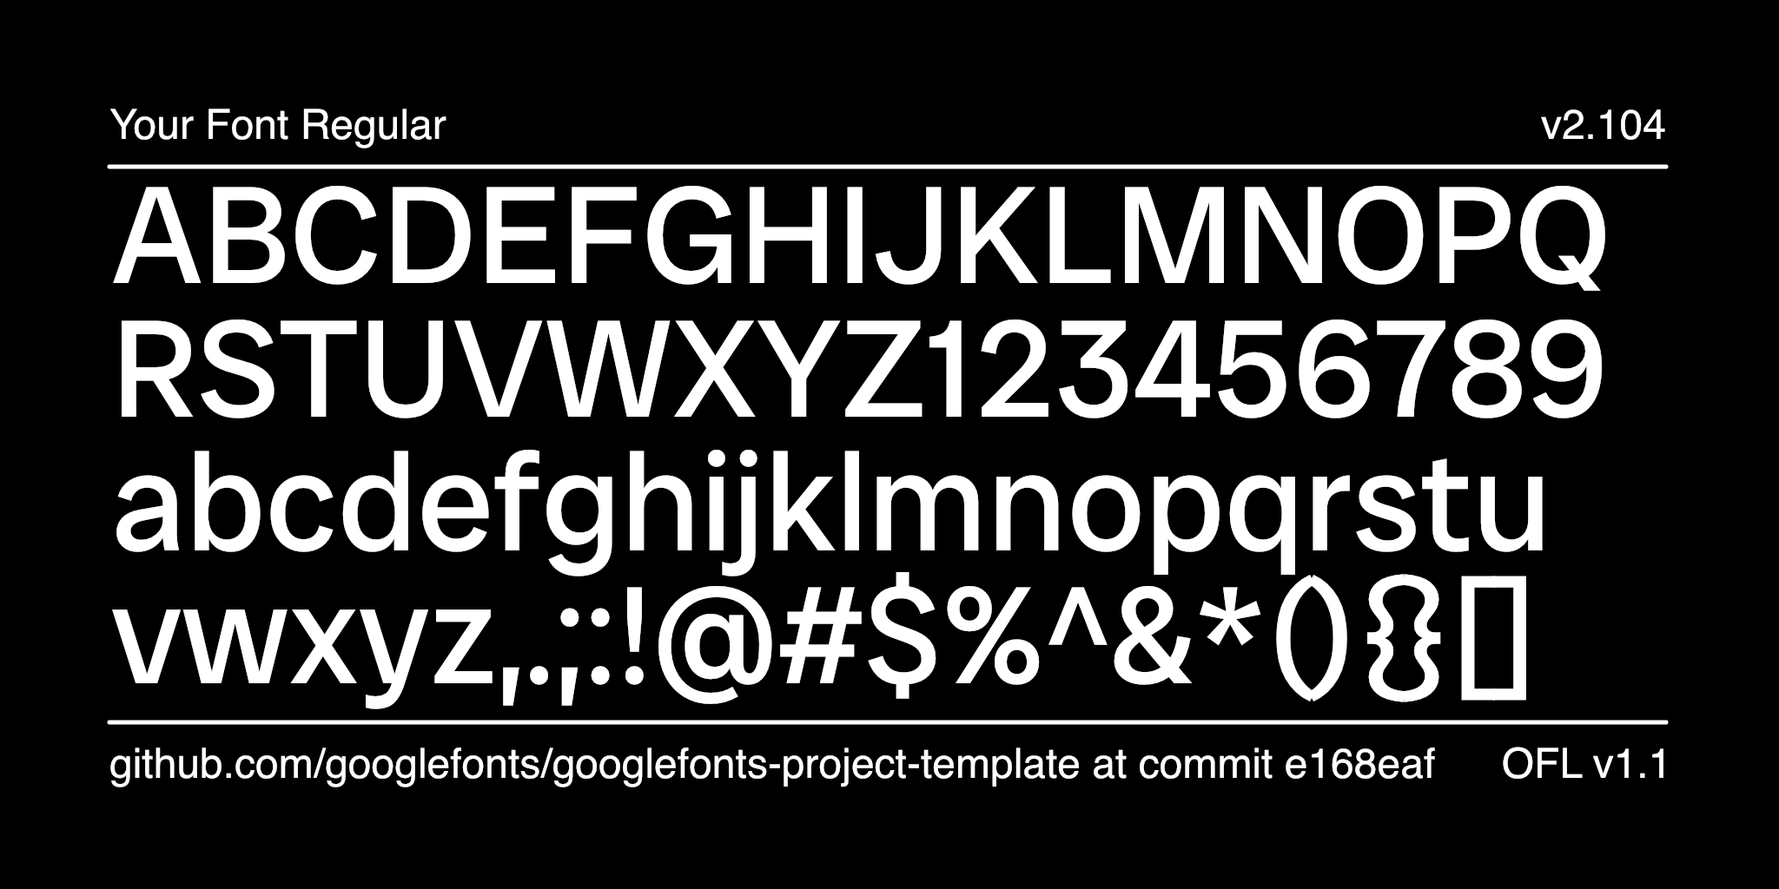
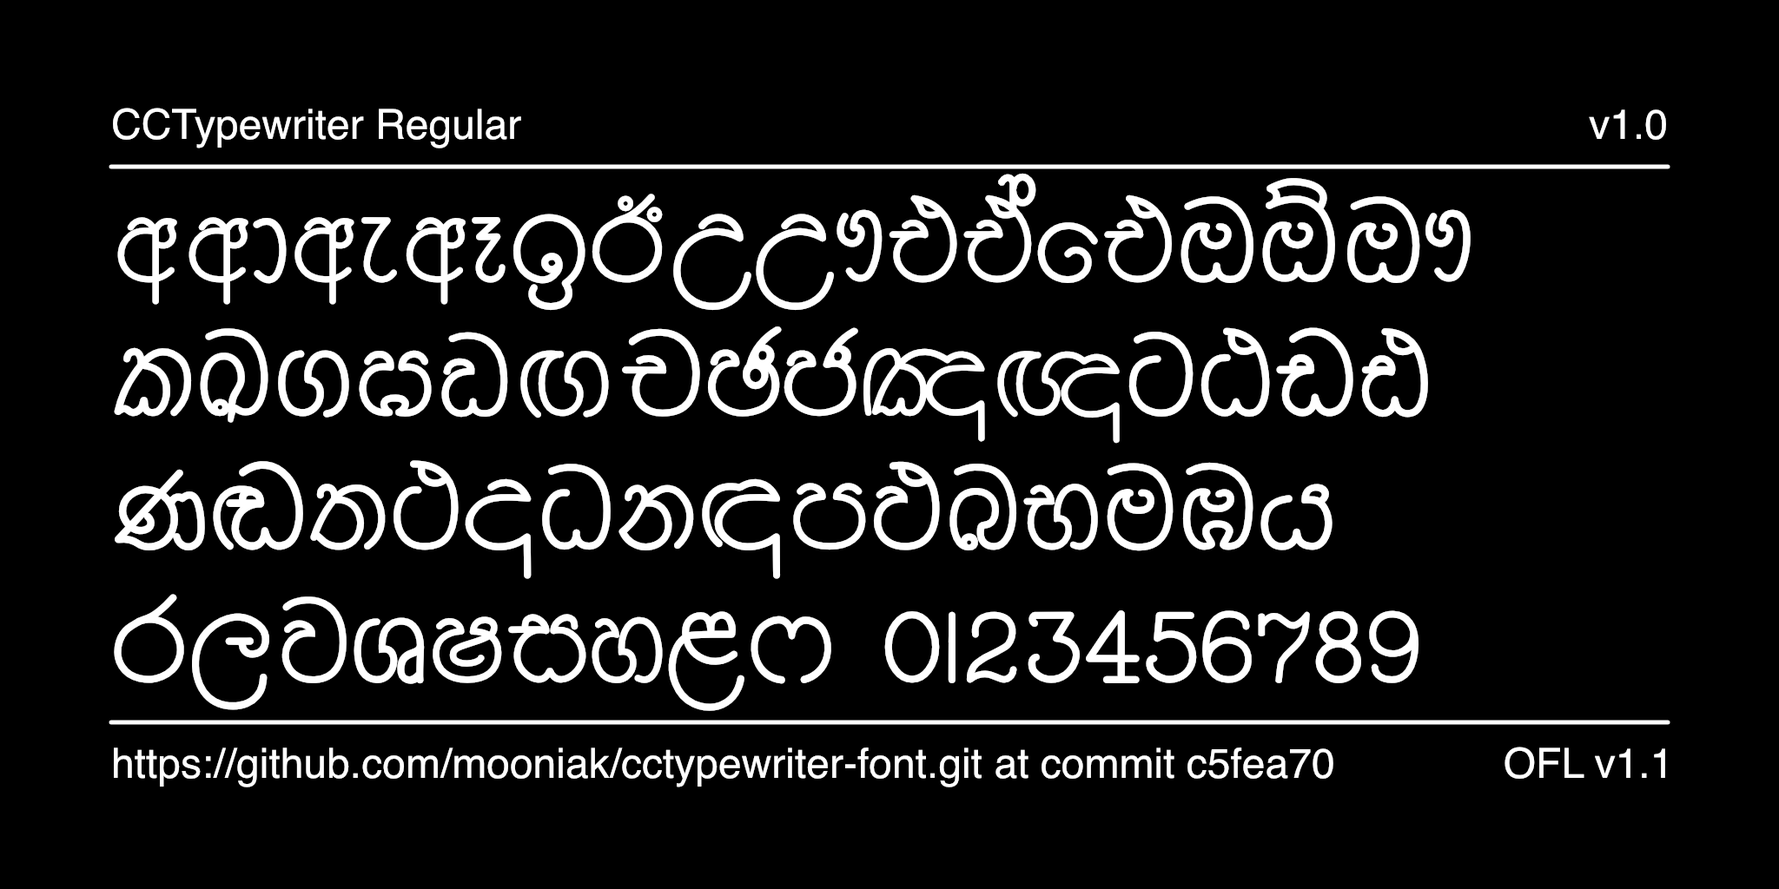
README, credits, article and specimens
Fills in the project template's placeholders:
- README: the font, its ASCII to Unicode port, font data and coverage
  from the release build, OpenType features, build and release steps
- AUTHORS.txt and CONTRIBUTORS.txt: Damith Welikala; OFL.txt line 1 is
  the font's copyright
- documentation/ARTICLE.en_us.html: the font description
- specimens: image1/image2.py point at fonts/ttf with Sinhala text drawn
  from the font's own coverage, rendered from a local --channel release
  build
- fontpackage.json: drop the "(issue #1)" reference; the repo has no
  issues yet

diff --git a/documentation/ARTICLE.en_us.html b/documentation/ARTICLE.en_us.html
@@ -1,12 +1,22 @@
 <p>
-    Please add a text describing the font here, 100 chracters or more, but no more than 500 words.
-    See https://googlefonts.github.io/gf-guide/article.html for further reference.
-    Please make sure that HTML characters are properly encoded. ('&' becomes &amp; etc.)
-    If unsure, use https://www.freeformatter.com/html-escape.html for formatting. (Use "Escape HTML").
+    CCTypewriter is a Sinhala typeface by Damith Welikala (Ceylon Calligraphy), made in 2019.
+    Its letters are drawn with a single even, round-ended stroke, like the letters of a
+    Sinhala typewriter, with simple open vowel signs and a small p-shaped al-lakuna. It
+    suits headings, posters, packaging and short texts that want the plain, mechanical feel
+    of typewritten Sinhala.
 </p>
 <p>
-    Could be several paragraphs, also.
+    The font was first made in the FM Abhaya ASCII layout, the encoding most Sinhala fonts used
+    before Unicode: Sinhala letters were drawn on Latin keys, so text only looked like Sinhala in
+    that one font. In 2026 Mooniak ported it to Unicode. Every glyph now sits on its Sinhala
+    code point or is reached through OpenType rules, the vowel signs that were typed as separate
+    keys are composed, and the signs are positioned exactly where the original drew them.
 </p>
 <p>
-    To contribute, see <a href="https://github.com/youruseraccount/yourrepository">github.com/youruseraccount/yourrepository</a>.
+    The font covers the Sinhala letters in common use with their vowel signs, rakaransaya and
+    yansaya, ඦ and ෳ, a set of consonant + vowel-sign ligatures, the conjuncts ක්&zwj;ෂ, ත්&zwj;ව,
+    න්&zwj;ද and ද්&zwj;ර, plus digits and basic punctuation, in a single Regular weight.
+</p>
+<p>
+    To contribute, see <a href="https://github.com/mooniak/cctypewriter-font">github.com/mooniak/cctypewriter-font</a>.
 </p>

diff --git a/documentation/image2.py b/documentation/image2.py
@@ -1,7 +1,7 @@
 # This script is meant to be run from the root level
 # of your font's git repository. For example, from a Unix terminal:
-# $ git clone my-font
-# $ cd my-font
+# $ git clone https://github.com/mooniak/cctypewriter-font.git
+# $ cd cctypewriter-font
 # $ python3 documentation/image1.py --output documentation/image1.png
 
 # Import moduels from external python packages: https://pypi.org/
@@ -13,18 +13,19 @@ from fontTools.misc.fixedTools import floatToFixedToStr
 import subprocess
 import sys
 import argparse
+import glob
 
 # Constants, these are the main "settings" for the image
 WIDTH, HEIGHT, MARGIN, FRAMES = 2048, 1024, 128, 1
-FONT_PATH = "fonts/variable/MyFont[wght].ttf"
+FONT_PATH = (sorted(glob.glob("fonts/ttf/*.ttf")) or sorted(glob.glob("fonts/variable/*.ttf")))[0]
 FONT_LICENSE = "OFL v1.1"
 AUXILIARY_FONT = "Helvetica"
 AUXILIARY_FONT_SIZE = 48
 
-LINE_ONE = "ABCDEFGHIJKLMNOPQ"
-LINE_TWO = "RSTUVWXYZ123456789"
-LINE_THREE = "abcdefghijklmnopqrstu"
-LINE_FOUR = "vwxyz,.;:!@#$%^&*(){}[]"
+LINE_ONE = "අආඇඈඉඊඋඌඑඒඓඔඕඖ"
+LINE_TWO = "කඛගඝඞඟචඡජඤඥටඨඩඪ"
+LINE_THREE = "ණඬතථදධනඳපඵබභමඹය"
+LINE_FOUR = "රලවශෂසහළෆ 0123456789"
 BIG_TEXT_FONT_SIZE = 160
 BIG_TEXT_SIDE_MARGIN = MARGIN * 1
 BIG_TEXT_BOTTOM_MARGIN = MARGIN * 5.45

diff --git a/documentation/image1.py b/documentation/image1.py
@@ -1,7 +1,7 @@
 # This script is meant to be run from the root level
 # of your font's git repository. For example, from a Unix terminal:
-# $ git clone my-font
-# $ cd my-font
+# $ git clone https://github.com/mooniak/cctypewriter-font.git
+# $ cd cctypewriter-font
 # $ python3 documentation/image1.py --output documentation/image1.png
 
 # Import moduels from external python packages: https://pypi.org/
@@ -13,18 +13,19 @@ from fontTools.misc.fixedTools import floatToFixedToStr
 import subprocess
 import sys
 import argparse
+import glob
 
 # Constants, these are the main "settings" for the image
 WIDTH, HEIGHT, MARGIN, FRAMES = 2048, 1024, 128, 1
-FONT_PATH = "fonts/variable/MyFont[wght].ttf"
+FONT_PATH = (sorted(glob.glob("fonts/ttf/*.ttf")) or sorted(glob.glob("fonts/variable/*.ttf")))[0]
 FONT_LICENSE = "OFL v1.1"
 AUXILIARY_FONT = "Helvetica"
 AUXILIARY_FONT_SIZE = 48
 
-BIG_TEXT = "AaBb"
-BIG_TEXT_FONT_SIZE = 730
+BIG_TEXT = "යතුරු"
+BIG_TEXT_FONT_SIZE = 480
 BIG_TEXT_SIDE_MARGIN = MARGIN * 1
-BIG_TEXT_BOTTOM_MARGIN = MARGIN * 2
+BIG_TEXT_BOTTOM_MARGIN = MARGIN * 2.7
 
 GRID_VIEW = False # Toggle this for a grid overlay
 

diff --git a/README.md b/README.md
@@ -1,101 +1,203 @@
-## Setting up your font
+CCTypewriter
+============
 
-### New repositories
+[![Build][badge-build]][link-build]
+[![Fontspector QA][badge-qa]][link-qa]
+[![Release][badge-release]][link-release]
+[![License: OFL 1.1][badge-license]][link-license]
 
-1. Hit the green button above ("Use this template") to create your own repository.
+[badge-build]: https://github.com/mooniak/cctypewriter-font/actions/workflows/build.yaml/badge.svg?branch=dev
+[badge-qa]: https://img.shields.io/badge/dynamic/json?url=https%3A%2F%2Fsrc.mooniak.com%2Fcctypewriter-font%2Fbuild.json&query=%24.qa.pass_rate&suffix=%25&label=fontspector%20QA%20(dev%20build)&color=informational
+[badge-release]: https://img.shields.io/github/v/release/mooniak/cctypewriter-font?label=release
+[badge-license]: https://img.shields.io/badge/license-OFL--1.1-green
+[link-build]: https://github.com/mooniak/cctypewriter-font/actions/workflows/build.yaml
+[link-qa]: https://src.mooniak.com/cctypewriter-font/reports/fontspector/fontspector-report.html
+[link-release]: https://github.com/mooniak/cctypewriter-font/releases
+[link-license]: OFL.txt
 
-2. Clone the repository, and replace the font sources in the `sources` directory with your own font sources. These sources may be either in Glyphs format or UFO/Designspace formats.\
-   \
-   Unlike many open source distributors, Google Fonts is **curated**. Fonts shipped to the platform have to match the [Google Fonts Specifications](https://github.com/googlefonts/gf-docs/tree/main/Spec). Please read them carefully.\
-   \
-   _(The template ships a tiny generic placeholder — "My Font", a 2-master Weight variable font with a handful of blank-slate glyphs (`.notdef`, space, H, I, l, O) as `sources/MyFont.designspace` + UFOs. It exists only so the build pipeline works out of the box; replace it with your own sources.)_
+CCTypewriter is a monoline, round-ended Sinhala typeface in the manner of a typewriter by Damith Welikala (Ceylon Calligraphy), made in 2019.
+Its letters are drawn with one even, round-ended stroke, like the letters of a Sinhala typewriter, for headings, posters, packaging and short texts that want the plain, mechanical feel of typewritten Sinhala. It is published by [Mooniak](https://mooniak.com/) as a free font under the SIL Open
+Font License, in a single Regular weight.
 
-3. Then reference the sources in the file `sources/config.yaml`, as well as making any other changes you would like to make based on the instructions in the [Google Fonts Builder documentation](https://github.com/googlefonts/gftools/blob/main/Lib/gftools/builder/__init__.py).
+![CCTypewriter specimen](documentation/image1.png)
+![CCTypewriter character set](documentation/image2.png)
 
-4. Add yourself to the `AUTHORS.txt` and `CONTRIBUTORS.txt` files.
+## From an ASCII font to Unicode
 
-5. Fill out `documentation/ARTICLE.en_us.html` with a description of your font.
+CCTypewriter was first made in the **FM Abhaya ASCII layout**, the encoding most Sinhala fonts used
+before Unicode. Sinhala letters were drawn on Latin keys (`l` was ක, `s` the is-pilla drawn to
+overprint the letter before it, `f` the kombuva typed *before* the letter, `á` a precomposed ටි).
+Text typed that way only reads as Sinhala in that one font. Search, copy-paste, spell-checking
+and screen readers all see Latin gibberish.
 
-6. Rewrite this Readme file according to the recommendations in the [Google Fonts Guide](https://googlefonts.github.io/gf-guide/readmefile.html).
+In November 2026 the source was ported to Unicode with Mooniak's
+[`ascii_to_unicode.py`](https://github.com/mooniak/mooniak-font-tools/tree/main/tools/font-migration):
 
-7. Add and commit these files to git.
+- every glyph got its Sinhala code point or a [LankaGlyphset](https://github.com/mooniak/lanka-glyphsets)
+  name reached by OpenType rules (the precomposed ටි ඩී ද්ර … are ligatures now);
+- what FM typed as several keys (ආ = `wd`, ෛ = `ff`, රු = `re` …) is composed from the same drawings;
+- the overprinting signs have zero width and mark anchors that put them exactly where the
+  original drew them; the kombuva is reordered by the shaper, not typed first.
 
-8. **At the command line, run `make customize` to ensure that all the paths and URLs in your project are correct**. This will also push your changes to GitHub.
+Every decision is in [`documentation/ascii-unicode-map.tsv`](documentation/ascii-unicode-map.tsv).
+Where this font differs from the standard FM layout, it is in
+[`documentation/ascii-overrides.tsv`](documentation/ascii-overrides.tsv): `C` `F` `J` are the full conjuncts ක්ෂ ත්ව න්ද (in FM these are touching halves), `Ù` and `å` are swapped (ඬ් and ඞ්), `_` is a compact second ී (`iisign-sinh.alt1`), `µ` is ෳ (medium confidence), and ඦ is built from `` ` `` + ජ.
+The port was checked by rendering 1202 texts (every glyph slot, 915 syllables, 124 words of real FM text) in the old ASCII font and, as Unicode, in the new one: 1198 came out the same. The 4 others are expected: ÷ sat on the soft-hyphen slot, which is never drawn, and ඞේ ඡේ ඬේ use the font's own joined al-lakuna forms, matching the FM spellings exactly.
 
-9. **Set up your GitHub pages site**: go to your repository's Settings > Pages and ensure that the Build and deployment "Source" drop-down is set to "GitHub Actions". (Any preexisting Actions jobs can be re-run to publish now, or the deployment triggered also manually from the Actions tab. Subsequent commits will publish the proofs and QA results automatically.)
+**Old documents typed in the ASCII version** can be converted to Unicode text with
+[Pandukabhaya](https://github.com/akuruAI/Pandukabhaya) (`pandukabhaya fm_abhaya -i old.txt -o new.txt`).
 
-10. If GitHub Actions has successfully built the family, you will find the font binaries in the Actions tab. The official GitHub Actions documentation provides further [information](https://docs.github.com/en/actions/managing-workflow-runs/downloading-workflow-artifacts).
+## Get the font
 
-### Updating a repository
+- **Download:** the [Releases](https://github.com/mooniak/cctypewriter-font/releases) page. A
+  pre-release named `canary` is rebuilt from every push to `dev`. It is the latest development
+  work and may be broken, so don't use it in production. Its family name ends in `CANARY`, so it
+  can be installed next to a release.
+- **Proofs and QA:** the latest development build, with type proofs and the full Fontspector
+  report, is at [src.mooniak.com/cctypewriter-font](https://src.mooniak.com/cctypewriter-font/).
+- **Build it yourself:** see [Building the fonts from source](#building-the-fonts-from-source).
 
-1. To update your font repository to bring in the latest best-practices from the Google Fonts Project Template, run `make update-project-template` from the command line. This requires the `node` Javascript engine to be installed; if you don't have that already, [follow these instructions](https://nodejs.org/en/download/package-manager#macos) to install on your platform.
+## Font data
 
-2. To update the Python build chain which builds your fonts, run `make update` and `git add`/`git commit` the new `requirements.txt`.
+| | |
+|---|---|
+| **Version** | 1.000 |
+| **Script** | Sinhala (no Latin letters; digits and basic punctuation only) |
+| **Styles** | Regular |
+| **Formats** | TTF, OTF and WOFF2 (`CCTypewriter-Regular.*`) |
+| **Glyphs** | 183 (112 mapped to Unicode code points; the rest are ligatures and alternates used by OpenType features) |
+| **Units per em** | 1000 |
+| **Vertical metrics** | ascent 900, descent −300, line gap 0 (1.2 em; `hhea`, typo and win; `USE_TYPO_METRICS` on) |
+| **File size** | about 91 KB (TTF), 54 KB (OTF), 38 KB (WOFF2) |
+| **Source format** | [Glyphs](https://glyphsapp.com/) 3 package (`sources/CCTypewriter.glyphspackage`) |
+| **License** | [SIL Open Font License 1.1](OFL.txt) |
 
-## More things to do
+### Character coverage
 
-- `CustomFilter_GF_Latin_All.plist` in `sources` is practical if you use GlyphsApp, you can remove it otherwise. Placed in the same directory as the your `.glyphs` file, it will allow Glyphs to display a filter list for all GF Latin glyphsets in app. To make sure your font supports the minimal set required by Google Fonts, look at the `GF_Latin_Core` filter list. Find other glyphsets and list formats for different software in [GF Glyphsets repository](https://github.com/googlefonts/glyphsets/tree/main/GF_glyphsets).
+| Range | Encoded |
+|---|---|
+| Sinhala (U+0D80–0DFF) | 76 of 91. Not drawn: candrabindu U+0D81, ඏ ඐ U+0D8F–0D90, ඣ U+0DA3, kunddaliya U+0DF4, Lith digits U+0DE6–0DEF |
+| Basic Latin | space, digits 0–9 and `! % ( ) * + , - . / : ; = ?` |
+| Other | × ÷ – ‘ ’, no-break space, ZWNJ, ZWJ, dotted circle (U+25CC); the Ceylon Calligraphy logo on U+E000 and an unidentified letter on U+E001 (private use) |
 
-- Once you are happy with your font, add promotional assets in the documentation directory. Make it different from the pic you use in this README. You can get inspired by existing @googlefonts posts as: https://x.com/googlefonts/status/1415562928657416192.
+### OpenType features
 
-- Google Fonts uses GitHub Releases to manage font families. If you feel your font project has hit a milestone, you must create a new release for it. In order to do this, go to the releases page and hit the "Draft a new release" button. You must provide a tag number and title which can only be a decimal number e.g. `0.100`, `1.000` etc. For the body text, mention what has changed since the last release. Once you are done, hit the "Publish release" button. Here is an example which fulfills the requirements, https://github.com/m4rc1e/test-ufr-family/releases/tag/2.019. For more info regarding GitHub release, please see the official GitHub Release [documentation](https://docs.github.com/en/repositories/releasing-projects-on-github/managing-releases-in-a-repository). **Please note that GitHub Actions must be able to build the fonts before you can make a release. Once you have made a release, the fonts and tests assets will be attached to the release automatically. This may take a while since the fonts and tests will be built from scratch so please be patient.**
+The features are generated by `ascii_to_unicode.py` from the glyphs the font has.
 
----
+| Layout table | Features |
+|---|---|
+| `GSUB` | `akhn` (ක්ෂ, ත්ව, න්ද) `vatu` (rakaransaya, yansaya, ද්ර) `pstf` (two-part vowels) `abvs` `blws` `psts` (consonant + sign ligatures, the hook-form ු/ූ after ක ග ත භ ශ, රු රූ) |
+| `GPOS` | `abvm` `mark` (ි ී ු ූ ් placed where the original drew them) |
 
-# My Font
+There is no repaya glyph: ර් + consonant shows as ර් + consonant. Most conjuncts fall back to a letter with a visible al-lakuna, and some glyphs need the designer to confirm what they are.
 
-[![][Fontspector]](https://mooniak.github.io/mooniak-font-project-template.git/fontspector/fontspector-report.html)
-[![][OpenType]](https://mooniak.github.io/mooniak-font-project-template.git/fontspector/fontspector-report.html)
-[![][Universal]](https://mooniak.github.io/mooniak-font-project-template.git/fontspector/fontspector-report.html)
-[![][Google Fonts]](https://mooniak.github.io/mooniak-font-project-template.git/fontspector/fontspector-report.html)
-[![][Glyphset]](https://mooniak.github.io/mooniak-font-project-template.git/fontspector/fontspector-report.html)
+## Repository structure
 
-[Fontspector]: https://img.shields.io/endpoint?url=https%3A%2F%2Fmooniak.github.io%2Fmooniak-font-project-template.git%2Fbadges%2FFontspectorQA.json
-[OpenType]: https://img.shields.io/endpoint?url=https%3A%2F%2Fmooniak.github.io%2Fmooniak-font-project-template.git%2Fbadges%2FOpentypeSpecificationChecks.json
-[Universal]: https://img.shields.io/endpoint?url=https%3A%2F%2Fmooniak.github.io%2Fmooniak-font-project-template.git%2Fbadges%2FUniversalProfileChecks.json
-[Google Fonts]: https://img.shields.io/endpoint?url=https%3A%2F%2Fmooniak.github.io%2Fmooniak-font-project-template.git%2Fbadges%2FFontFileChecks.json
-[Outline Correctness]: https://img.shields.io/endpoint?url=https%3A%2F%2Fmooniak.github.io%2Fmooniak-font-project-template.git%2Fbadges%2FOutlineCorrectnessChecks.json
-[Glyphset]: https://img.shields.io/endpoint?url=https%3A%2F%2Fmooniak.github.io%2Fmooniak-font-project-template.git%2Fbadges%2FGlyphsetChecks.json
+| Path | What it is |
+|---|---|
+| `sources/CCTypewriter.glyphspackage` | The font source: glyphs, anchors and OpenType feature code, as a Glyphs 3 package |
+| `sources/config.yaml` | Build configuration read by [gftools](https://github.com/googlefonts/gftools) |
+| `fontpackage.json` | Mooniak catalogue metadata (name, designer, tier, channels) |
+| `Makefile` | Build, test and proof targets (see below) |
+| `requirements.in`, `requirements.txt` | Python dependencies: the top-level list, and the pinned set used for builds |
+| `fonts/`, `out/`, `_site/` | Build output, QA/proof reports and the proof site (created by `make`; not committed) |
+| `documentation/` | Specimen images and their DrawBot scripts, the font description (`ARTICLE.en_us.html`), and the ASCII → Unicode port records (`ascii-unicode-map.tsv`, `ascii-overrides.tsv`) |
+| `scripts/` | Helper scripts used by the Makefile and CI (from the Mooniak project template) |
+| `OFL.txt`, `AUTHORS.txt`, `CONTRIBUTORS.txt` | License and credits |
 
-Description of your font goes here. We recommend to start with a very short presentation line (the kind you would use on twitter to present your project for example), and then add as much details as necesary :-) Origin of the project, idea of usage, concept of creation… but also number of masters, axes, character sets, etc.
+## Building the fonts from source
 
-Don't hesitate to create images!
+Building needs only free, open-source tools. You need Glyphs only to edit the source, not to build.
 
-![Sample Image](documentation/image1.png)
-![Sample Image](documentation/image2.png)
+### Requirements
 
-## About
+- **macOS or Linux** (on Windows, use [WSL](https://learn.microsoft.com/windows/wsl/)).
+- **Python 3.12** with `venv` and `pip`, the version CI uses. The dependencies in
+  `requirements.txt` are pinned, and other Python versions may fail to install them.
+- **Make** and **git**, and network access for the first build.
 
-Description of you and/or organisation goes here.
+### Build
 
-## Building
+```sh
+git clone https://github.com/mooniak/cctypewriter-font.git
+cd cctypewriter-font
+python3.12 -m venv venv
+make build
+```
 
-Fonts are built automatically by GitHub Actions — take a look in the "Actions" tab for the latest build.
+`make build` installs the pinned dependencies into `venv/` (first run only), then runs
+[`gftools builder`](https://github.com/googlefonts/gftools) on `sources/config.yaml`. Output:
 
-If you want to build fonts manually on your own computer:
+```
+fonts/ttf/CCTypewriter-Regular.ttf
+fonts/otf/CCTypewriter-Regular.otf
+fonts/webfonts/CCTypewriter-Regular.woff2
+```
 
-- `make build` will produce font files.
-- `make test` will run [Fontspector](https://fonttools.github.io/fontspector/)'s quality assurance tests.
-- `make proof` will generate HTML proof files.
+Each rebuild deletes and recreates `fonts/`. `make` doesn't notice edits inside the package
+folder, so after editing the source run `rm build.stamp && make build`.
 
-The proof files and QA tests are also available automatically via GitHub Actions — look at https://mooniak.github.io/mooniak-font-project-template.git.
+### Quality checks and proofs
+
+These need two extra tools, installed with
+[`cargo binstall`](https://github.com/cargo-bins/cargo-binstall):
+
+```sh
+cargo binstall fontspector     # for `make test`
+cargo binstall diffenator3     # for `make proof`
+```
+
+| Command | What it does |
+|---|---|
+| `make test` | Runs [Fontspector](https://github.com/fonttools/fontspector) with the Google Fonts profile and writes reports to `out/fontspector/`. It doesn't stop on failures; read the report. |
+| `make proof` | Runs `diff3proof` and writes an HTML proof to `out/proof/`. |
+| `make pages` | Builds the stage-gated proof site into `_site/` (needs `make manifest` first). |
+| `make images` | Re-renders `documentation/image1.png` and `image2.png`. |
+| `make clean` | Deletes `venv/`. |
+
+Known Fontspector failures, shared by Mooniak's other Sinhala-only fonts: the Google Fonts Latin
+coverage, language-shaping and "render own name" checks (the font has no Latin letters), and the
+GF repository-layout check.
+
+## Releases and versioning
+
+Versions follow [OpenFV](https://github.com/openfv/openfv) (`MAJOR.MINOR`, three-digit minor).
+Work happens on `dev`; `main` only moves when a release is cut.
+
+| You want | Do this | CI publishes |
+|---|---|---|
+| the latest build | push to `dev` | the rolling `canary` pre-release and the proof site |
+| a fixed preview for testers | tag a `dev` commit `vX.YYY-dev.N` | a GitHub pre-release |
+| a release | merge `dev` into `main` (no squash), tag `main` `vX.YYY` | a GitHub Release |
+
+Bump `versionMajor`/`versionMinor` in the source before tagging. The next release after the
+2019 version 1.000 should be **1.001** or later.
+
+## Contributing
+
+Bug reports and design feedback are welcome in the
+[issue tracker](https://github.com/mooniak/cctypewriter-font/issues). Open pull requests against
+`dev`, edit `sources/CCTypewriter.glyphspackage` with Glyphs 3, rebuild
+(`rm build.stamp && make build`) and run `make test`. Add yourself to `CONTRIBUTORS.txt`.
+
+## Credits
+
+- **Design:** Damith Welikala, Ceylon Calligraphy (2019)
+- **Unicode port, production and publishing:** [Mooniak](https://mooniak.com/) (2026)
+- **FM Abhaya mapping data:** [Pandukabhaya](https://github.com/akuruAI/Pandukabhaya) (MIT)
 
 ## Changelog
 
-When you update your font (new version or new release), please report all notable changes here, with a date.
-[Font Versioning](https://github.com/googlefonts/gf-docs/tree/main/Spec#font-versioning) is based on semver.
-Changelog example:
+**18 November 2026, version 1.000 (development)**
 
-**26 May 2021. Version 2.13**
+- Ported from the FM Abhaya ASCII layout to Unicode: LankaGlyphset names, Sinhala code points,
+  composed vowels and ligatures, generated OpenType features, mark anchors.
+- Moved to the Mooniak build pipeline: Glyphs 3 package, gftools builds with CI, proofs and QA.
+- Added no-break space, ZWJ/ZWNJ and dotted circle; Google Fonts vertical metrics; Mooniak copyright, designer, vendor ID and OFL licence in the font.
 
-- MAJOR Font turned to a variable font.
-- SIGNIFICANT New Stylistic sets added.
+**2019, version 1.000.** Damith Welikala's original, an FM-layout ASCII font made in FontForge.
 
 ## License
 
-This Font Software is licensed under the SIL Open Font License, Version 1.1.
-This license is available with a FAQ at https://openfontlicense.org
-
-## Repository Layout
-
-This font repository structure is inspired by [Unified Font Repository v0.3](https://github.com/unified-font-repository/Unified-Font-Repository), modified for the Google Fonts workflow.
+This Font Software is licensed under the SIL Open Font License, Version 1.1. This license is
+available with a FAQ at https://openfontlicense.org
